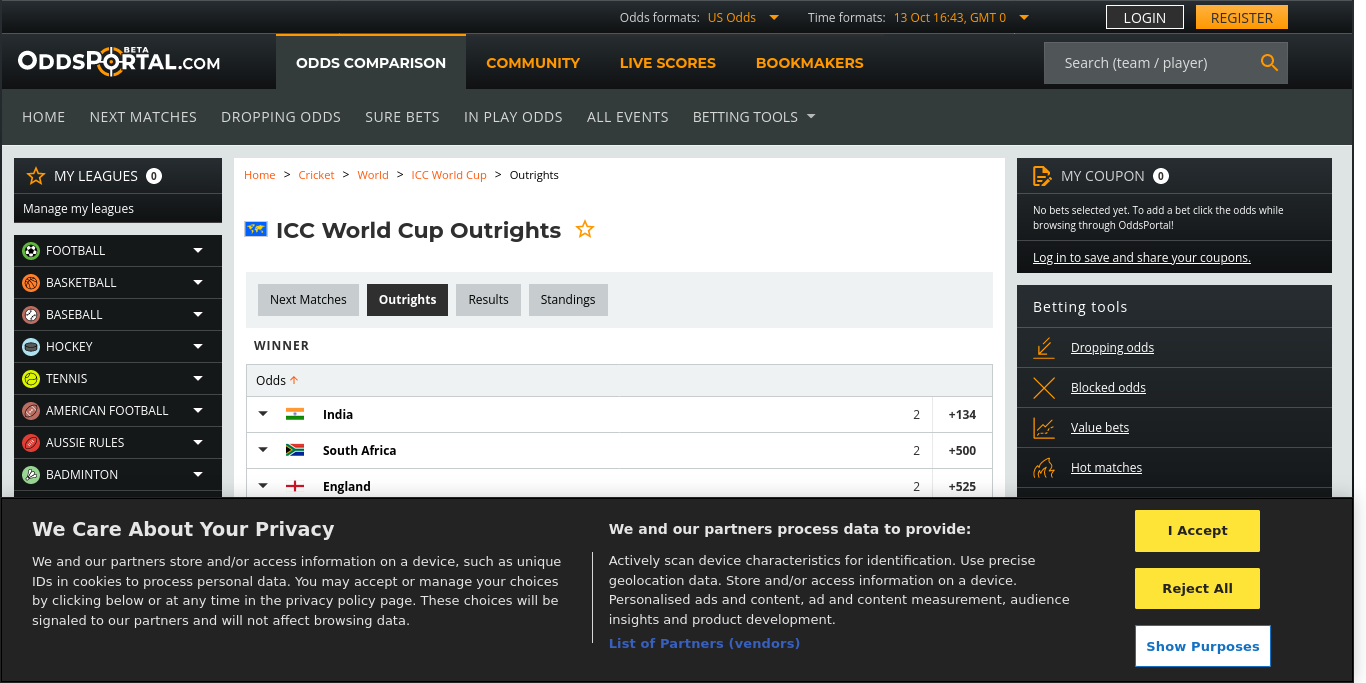
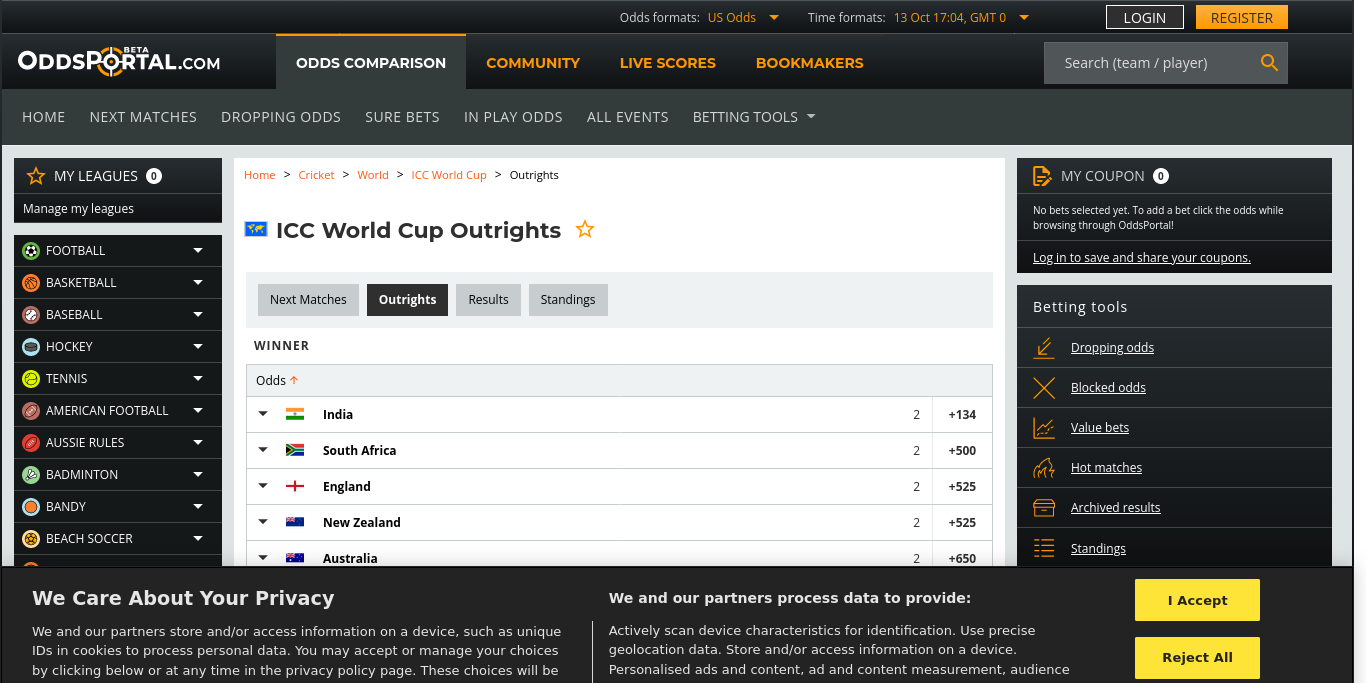
Update Data (Cron) Fri Oct 13 17:04:28 UTC 2023

Changed region(s): [[0.0, 0.7072, 0.9531, 1.0], [0.9531, 0.7072, 1.0, 0.8302], [0.6764, 0.0, 0.7072, 0.0307]]

diff --git a/src/nonview/data/TEAM1_ID_TO_TEAM2_ID_TO_ODDS_PAIR.js b/src/nonview/data/TEAM1_ID_TO_TEAM2_ID_TO_ODDS_PAIR.js
@@ -1,5 +1,5 @@
 // Auto Generated by workflows/update_team1_id_to_team2_id_to_odds_pair.py
-// www.oddsportal.com - 2023-10-13 22:13:29
+// www.oddsportal.com - 2023-10-13 22:34:28
 
 import { TEAM } from "../core/Team.js";
 
@@ -9,16 +9,16 @@ export const TEAM1_ID_TO_TEAM2_ID_TO_ODDS_PAIR = {
     [TEAM.BGD.id]: [1.19, 4.82],
   },
   [TEAM.ENG.id]: {
-    [TEAM.AFG.id]: [1.10, 6.67],
+    [TEAM.AFG.id]: [1.10, 6.75],
   },
   [TEAM.AUS.id]: {
-    [TEAM.LKA.id]: [1.30, 3.49],
+    [TEAM.LKA.id]: [1.30, 3.48],
     [TEAM.PAK.id]: [1.64, 2.27],
   },
   [TEAM.ZAF.id]: {
-    [TEAM.NLD.id]: [1.04, 10.84],
+    [TEAM.NLD.id]: [1.04, 10.85],
   },
   [TEAM.NZL.id]: {
-    [TEAM.AFG.id]: [1.21, 4.44],
+    [TEAM.AFG.id]: [1.17, 4.91],
   },
 };

diff --git a/src/nonview/constants/VERSION.js b/src/nonview/constants/VERSION.js
@@ -1,4 +1,4 @@
 // Auto-generated by javascript_version.py
-export const DATETIME_STR = "2023-10-13 22:13:29";
+export const DATETIME_STR = "2023-10-13 22:34:28";
 export const VERSION_DATETIME = new Date(DATETIME_STR);
 export const LAST_COMMIT_MESSAGE = "Updated 📊Data"

diff --git a/src/nonview/data/TEAM_ID_TO_P_WINNER.js b/src/nonview/data/TEAM_ID_TO_P_WINNER.js
@@ -1,5 +1,5 @@
 // Auto Generated by workflows/update_team_id_to_p_winner.py
-// www.oddsportal.com - 2023-10-13 22:13:13
+// www.oddsportal.com - 2023-10-13 22:34:11
 export const TEAM_ID_TO_P_WINNER = {
   IND: 0.366082, // 37%
   ZAF: 0.142772, // 14%

diff --git a/src/nonview/data/ODI_ID_TO_WINNER.js b/src/nonview/data/ODI_ID_TO_WINNER.js
@@ -1,5 +1,5 @@
 // Auto Generated by workflows/update_odi_id_to_winner.py
-// www.cricbuzz.com - 2023-10-13 22:13:19
+// www.cricbuzz.com - 2023-10-13 22:34:19
 
 import { TEAM } from "../core/Team.js";
 
